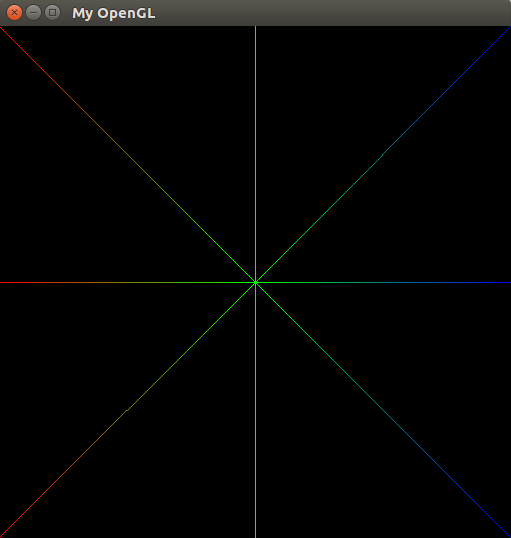
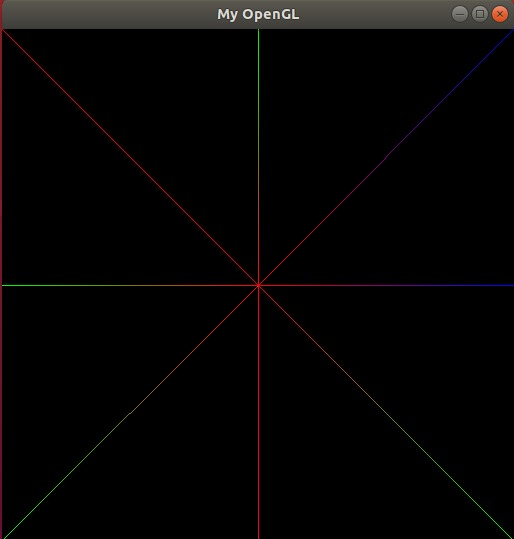
Updating images

diff --git a/Rasterization/mygl_framework/mygl.c b/Rasterization/mygl_framework/mygl.c
@@ -99,15 +99,15 @@ void drawTriangle(pixel_t p1, pixel_t p2, pixel_t p3) {
 
 // Definição da função que chamará as funções implementadas pelo aluno
 void MyGlDraw(void) {
-    /*pixel_t p1 = {  0,   0, {255, 0, 0, 255}},
-            p2 = {256,   0, {255, 0, 0, 255}},
-            p3 = {511,   0, {255, 0, 0, 255}},
-            p4 = {  0, 256, {255, 0, 0, 255}},
-            p5 = {256, 256, {255, 0, 0, 255}},
-            p6 = {  0, 511, {255, 0, 0, 255}},
-            p7 = {511, 256, {255, 0, 0, 255}},
-            p8 = {511, 511, {255, 0, 0, 255}},
-            p9 = {256, 511, {255, 0, 0, 255}};
+    pixel_t p1 = {  0,   0, {255,   0,   0, 255}},
+            p2 = {256,   0, {  0, 255,   0, 255}},
+            p3 = {511,   0, {  0,   0, 255, 255}},
+            p4 = {  0, 256, {  0, 255,   0, 255}},
+            p5 = {256, 256, {255,   0,   0, 255}},
+            p6 = {  0, 511, {  0, 255,   0, 255}},
+            p7 = {511, 256, {  0,   0, 255, 255}},
+            p8 = {511, 511, {  0, 255,   0, 255}},
+            p9 = {256, 511, {255,   0,   0, 255}};
     
     drawLine(p5, p1);
     drawLine(p5, p2);
@@ -117,11 +117,11 @@ void MyGlDraw(void) {
     drawLine(p5, p7);
     drawLine(p5, p8);
     drawLine(p5, p9);
-    */
     
-    pixel_t a = {256, 128, {255,   0,   0, 255}},
+    
+    /*pixel_t a = {256, 128, {255,   0,   0, 255}},
             b = {128, 383, {  0, 255,   0, 255}},
             c = {383, 383, {  0,   0, 255, 255}};
-            
-    drawTriangle(a, b ,c);
+        
+    drawTriangle(a, b ,c);*/
 }
